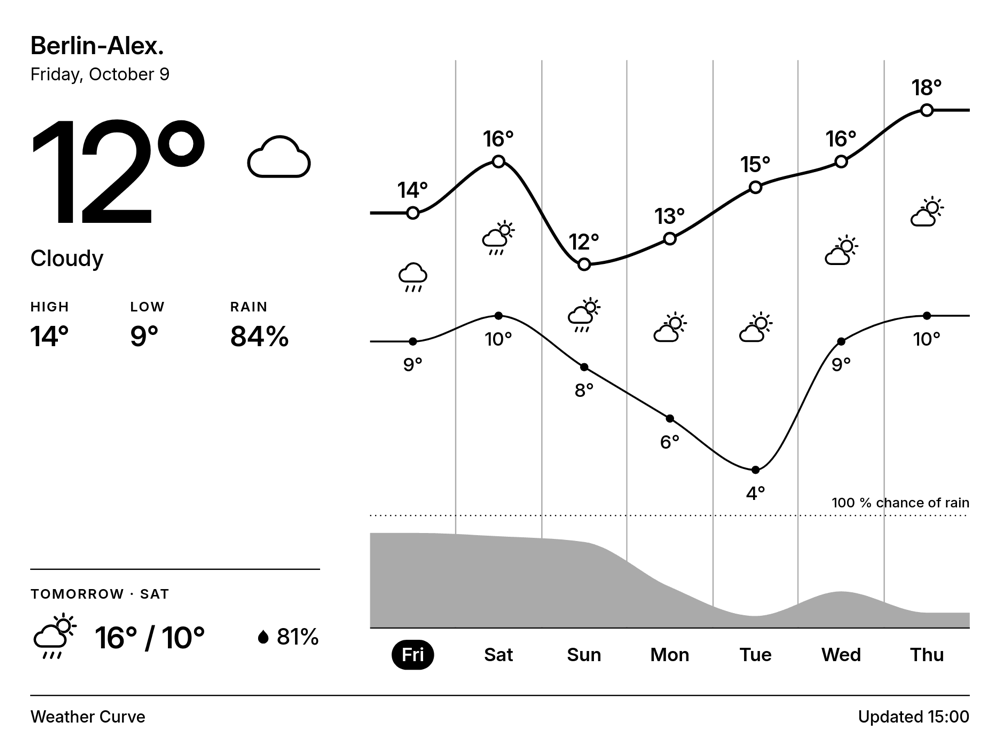
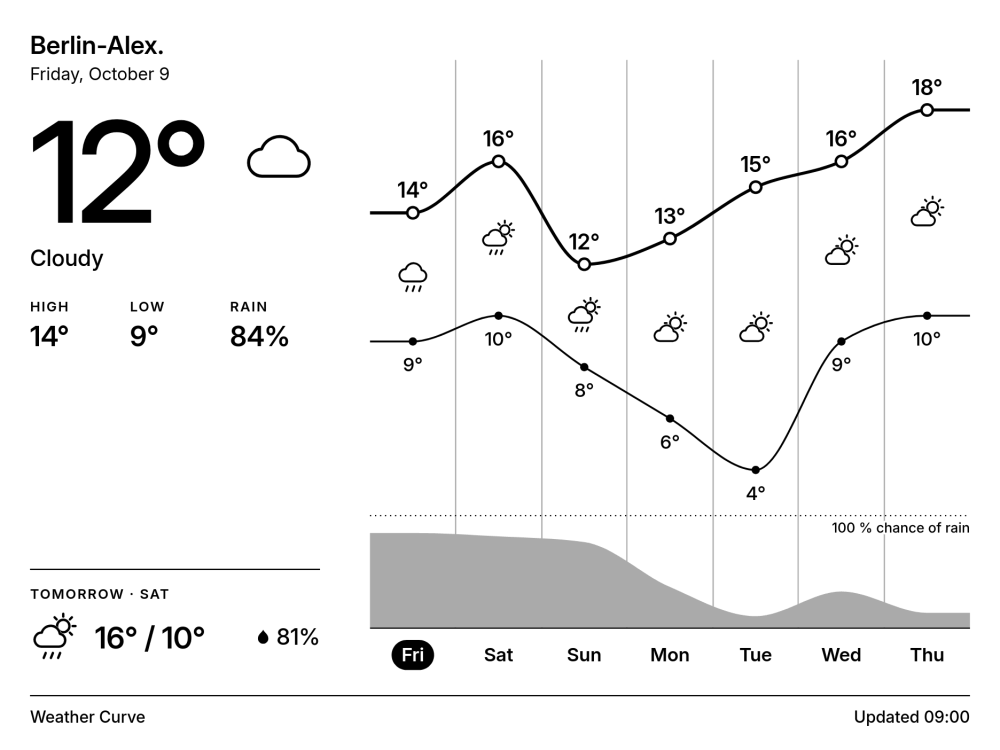
Address the recipe review: rain legend, portrait and dark mode
- Draw the "100 % chance of rain" legend under the dotted line, with a halo
  over the rain area, so it no longer runs into the low temperatures.
- Redraw a view when its slot gets its real size (ResizeObserver), so a
  preview switched to portrait reflows instead of letterboxing.
- Cap the curve's height per degree in tall portrait slots and center it.
- Draw in currentColor so dark mode keeps every line and label.
- Start at today only when a week of data follows it, so aged test data
  still renders seven days.

diff --git a/src/transform.py b/src/transform.py
@@ -49,15 +49,16 @@ def run(input):
     for w in rows:
         by_date.setdefault(w["_t"].date(), []).append(w)
 
-    # Start at local today; fall back to the first day in the data (e.g. canned test data).
+    # Full days only (skips the trailing partial day). Start at local today when a week follows it;
+    # otherwise (canned test data that has aged) start at the data's first day.
+    full = sorted(d for d in by_date if len(by_date[d]) >= 12)
     today = current["_t"].date() if current else None
-    dates = sorted(d for d in by_date if today is None or d >= today) or sorted(by_date)
+    ahead = [d for d in full if today and d >= today]
+    dates = ahead if len(ahead) >= DAYS else full
 
     days = []
     for d in dates:
         ws = by_date[d]
-        if len(ws) < 12:  # skip the trailing partial day
-            continue
         temps = [w["temperature"] for w in ws if w.get("temperature") is not None]
         probs = [w[k] for w in ws for k in ("precipitation_probability", "precipitation_probability_6h")
                  if w.get(k) is not None]
